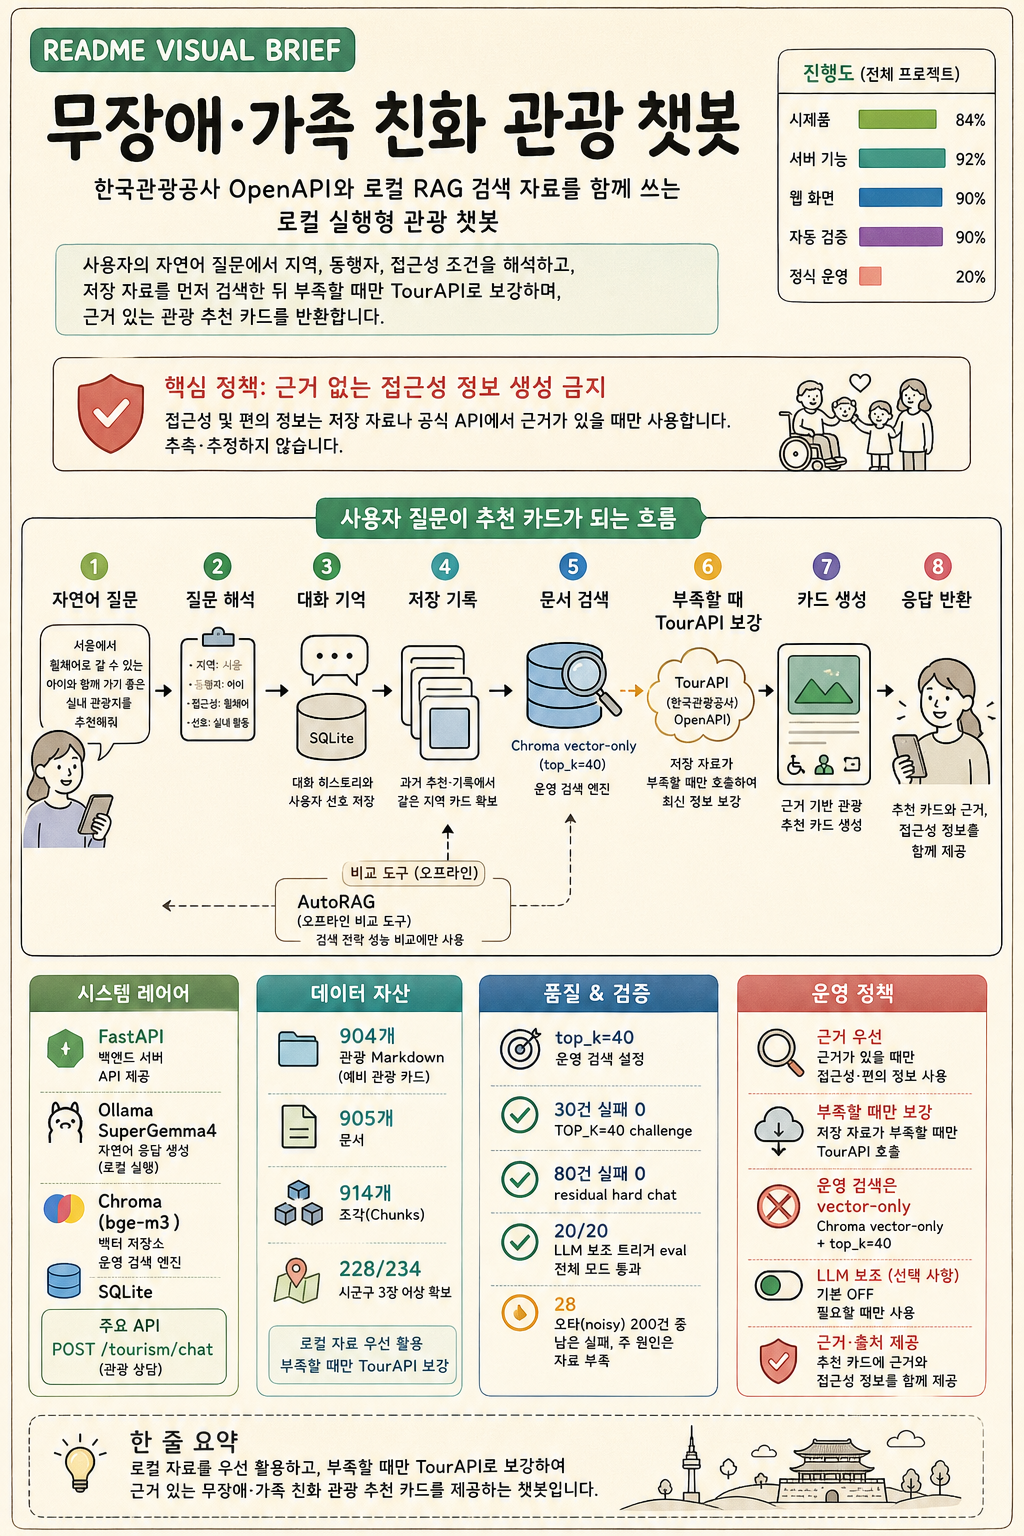
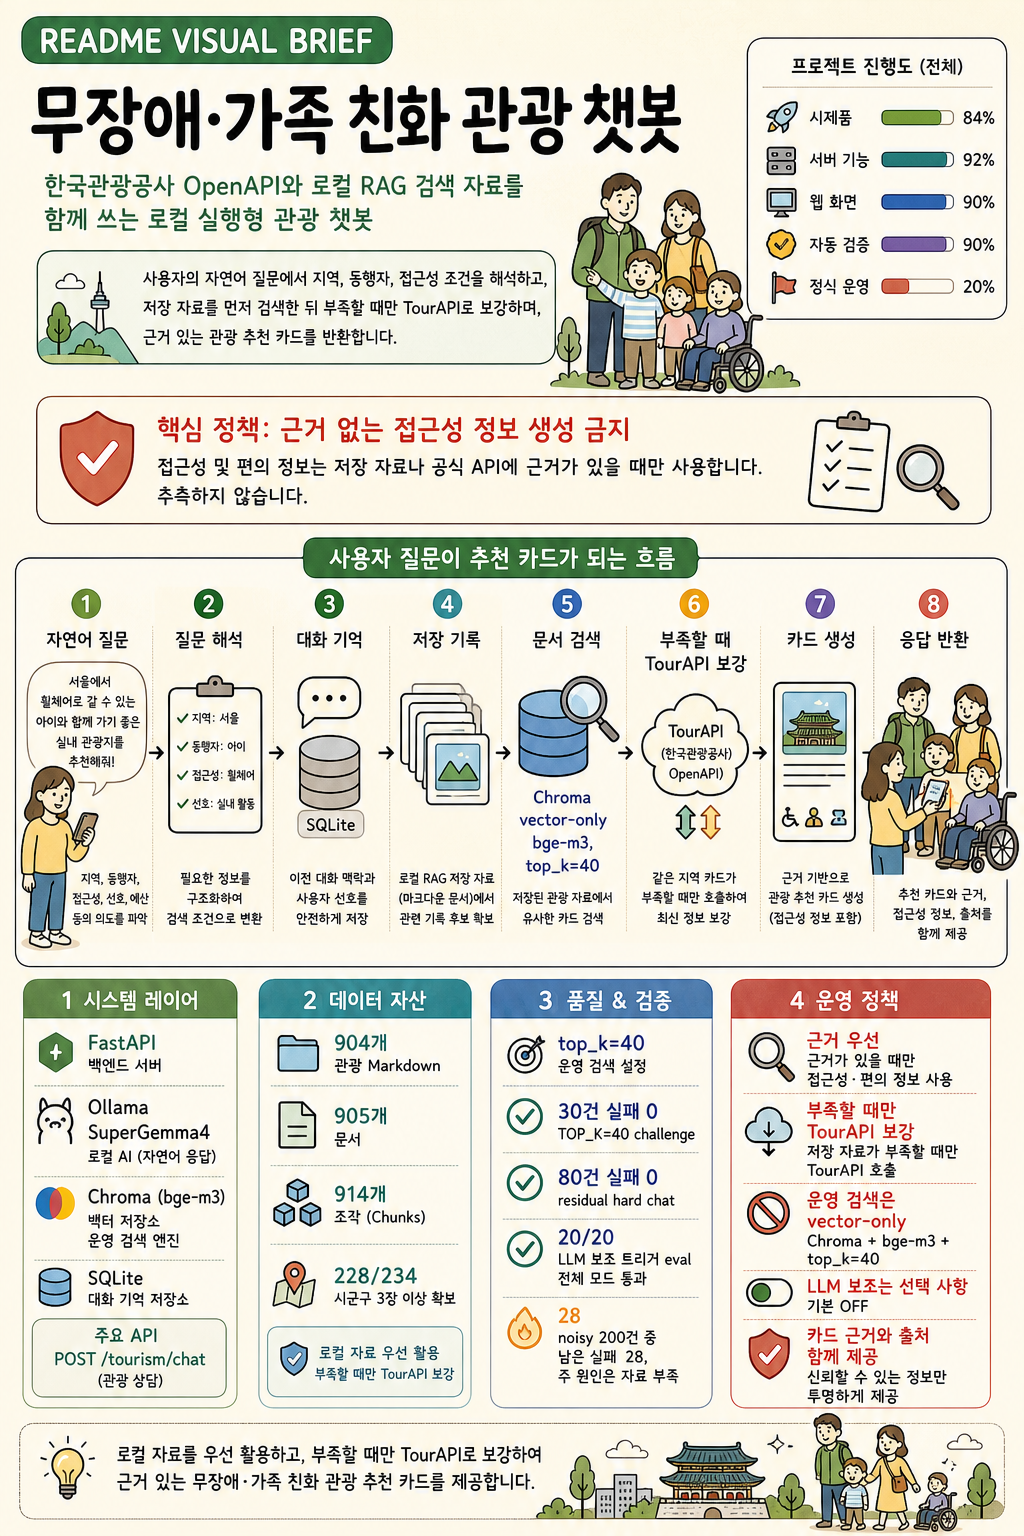
문서: README 인포그래픽 표현 개선
대표 인포그래픽에서 성능 비교 도구 표현을 제거하고, 친근한 사용자 중심 생성형 이미지와 재생성 프롬프트를 반영했다.

diff --git a/docs/project/readme_project_infographic.html b/docs/project/readme_project_infographic.html
@@ -516,7 +516,7 @@
       <h2 class="section-title"><span class="num">5</span>현재 운영 정책</h2>
       <div class="policy-grid">
         <div class="policy green"><strong>근거 없는 정보 생성 금지</strong><p>공공데이터나 예비 카드에 없는 접근성 정보는 추측하지 않고 확인 필요로 남긴다.</p></div>
-        <div class="policy teal"><strong>운영 검색은 벡터 검색</strong><p>BM25, AutoRAG는 오프라인 비교 도구다. 실제 서비스 검색은 bge-m3 + top_k=40 유지.</p></div>
+        <div class="policy teal"><strong>운영 검색은 벡터 검색</strong><p>실제 서비스 검색은 Chroma vector-only와 bge-m3 + top_k=40 경로를 유지한다.</p></div>
         <div class="policy red"><strong>실시간 조회는 부족할 때만</strong><p>캐시와 예비 자료를 먼저 쓰고, 후보가 적으면 최신 정보 더 찾기를 제안한다.</p></div>
         <div class="policy yellow"><strong>관계 호칭만으로 나이 추정 금지</strong><p>아빠, 어머니, 부모님만 보고 고령자 조건을 만들지 않는다.</p></div>
         <div class="policy blue"><strong>시군구 자동 확장 금지</strong><p>좁은 지역을 말하면 타 지역을 섞지 않는다. 확장 요청이 명확할 때만 넓힌다.</p></div>

diff --git a/docs/project/readme_project_infographic_prompt.md b/docs/project/readme_project_infographic_prompt.md
@@ -170,7 +170,6 @@ README의 관광 시제품 데이터와 정책에서 핵심 정책을 뽑아 카
 - 캐시/RAG 우선, 부족할 때만 TourAPI live 조회
 - 저장된 후보가 적으면 자동 조회보다 `최신 정보 더 찾기` 제안
 - 운영 검색은 Chroma vector-only `TOP_K=40`
-- AutoRAG는 retrieval-only 오프라인 실험 도구
 - 시군구 자동 확장 금지
 - 관계 호칭만으로 나이 추정 금지
 - LLM reasoning assist 기본 OFF
@@ -257,8 +256,14 @@ footer:
 - 얇은 검은 선
 - muted green, teal, blue, yellow, red, violet 포인트 색
 - 정리된 whiteboard explainer 느낌
+- 친근한 손그림풍 라인 일러스트와 보기 좋은 장식 밀도
+- 사용자, 가족, 휠체어 이용자, 스마트폰, 관광 카드, 지도, 서버, 데이터베이스, 돋보기 아이콘
+- Ollama는 공식 로고 복제가 아니라 귀여운 로컬 AI 라마 마스코트 느낌으로 작게 표현
 - README 대표 이미지 느낌
 - 카드와 섹션이 명확하지만, 웹페이지 스크린샷처럼 보이지 않게 해
+- 사람 일러스트는 모두 목, 몸통, 팔, 다리 또는 휠체어가 연결된 전신 캐릭터로 그려. 머리만 떠 보이는 표현은 금지
+- 가족/휠체어 이용자 일러스트는 바닥선 위에 안정적으로 배치
+- 하트 아이콘은 사람 머리 위에 붙이지 말고, 필요하면 작은 배경 장식으로 멀리 배치하거나 생략
 
 내용 구성:
 
@@ -316,17 +321,17 @@ footer:
 
 - 세부 API명 `areaBasedList2`, `detailCommon2`, `detailWithTour2`
 - 세부 latency 숫자
-- AutoRAG를 운영 엔진처럼 크게 표시하는 것
+- 성능 비교용 실험 도구를 런타임 흐름처럼 표시하는 것
 - LLM 보조가 기본 ON인 것처럼 보이는 구성
 - 실제 관광지 이름을 임의로 만드는 것
 - 웹 UI screenshot처럼 보이는 결과
+- 얼굴만 둥둥 떠 있는 아이콘, 목 없는 캐릭터, 잘린 상반신
 - 작은 텍스트가 빽빽한 표
 - 진한 gradient, 장식용 blob, stock image 느낌
 
 정확성 규칙:
 
 - 운영 검색은 `Chroma vector-only + top_k=40`으로 표현해.
-- AutoRAG는 필요하면 오프라인 비교 도구로만 작게 표현해.
 - LLM 보조는 `기본 OFF` 또는 `선택 사항`으로 표현해.
 - TourAPI는 매번 호출이 아니라 `부족할 때 보강`으로 표현해.
 - 접근성 정보는 근거가 있을 때만 쓴다는 정책을 강조해.
